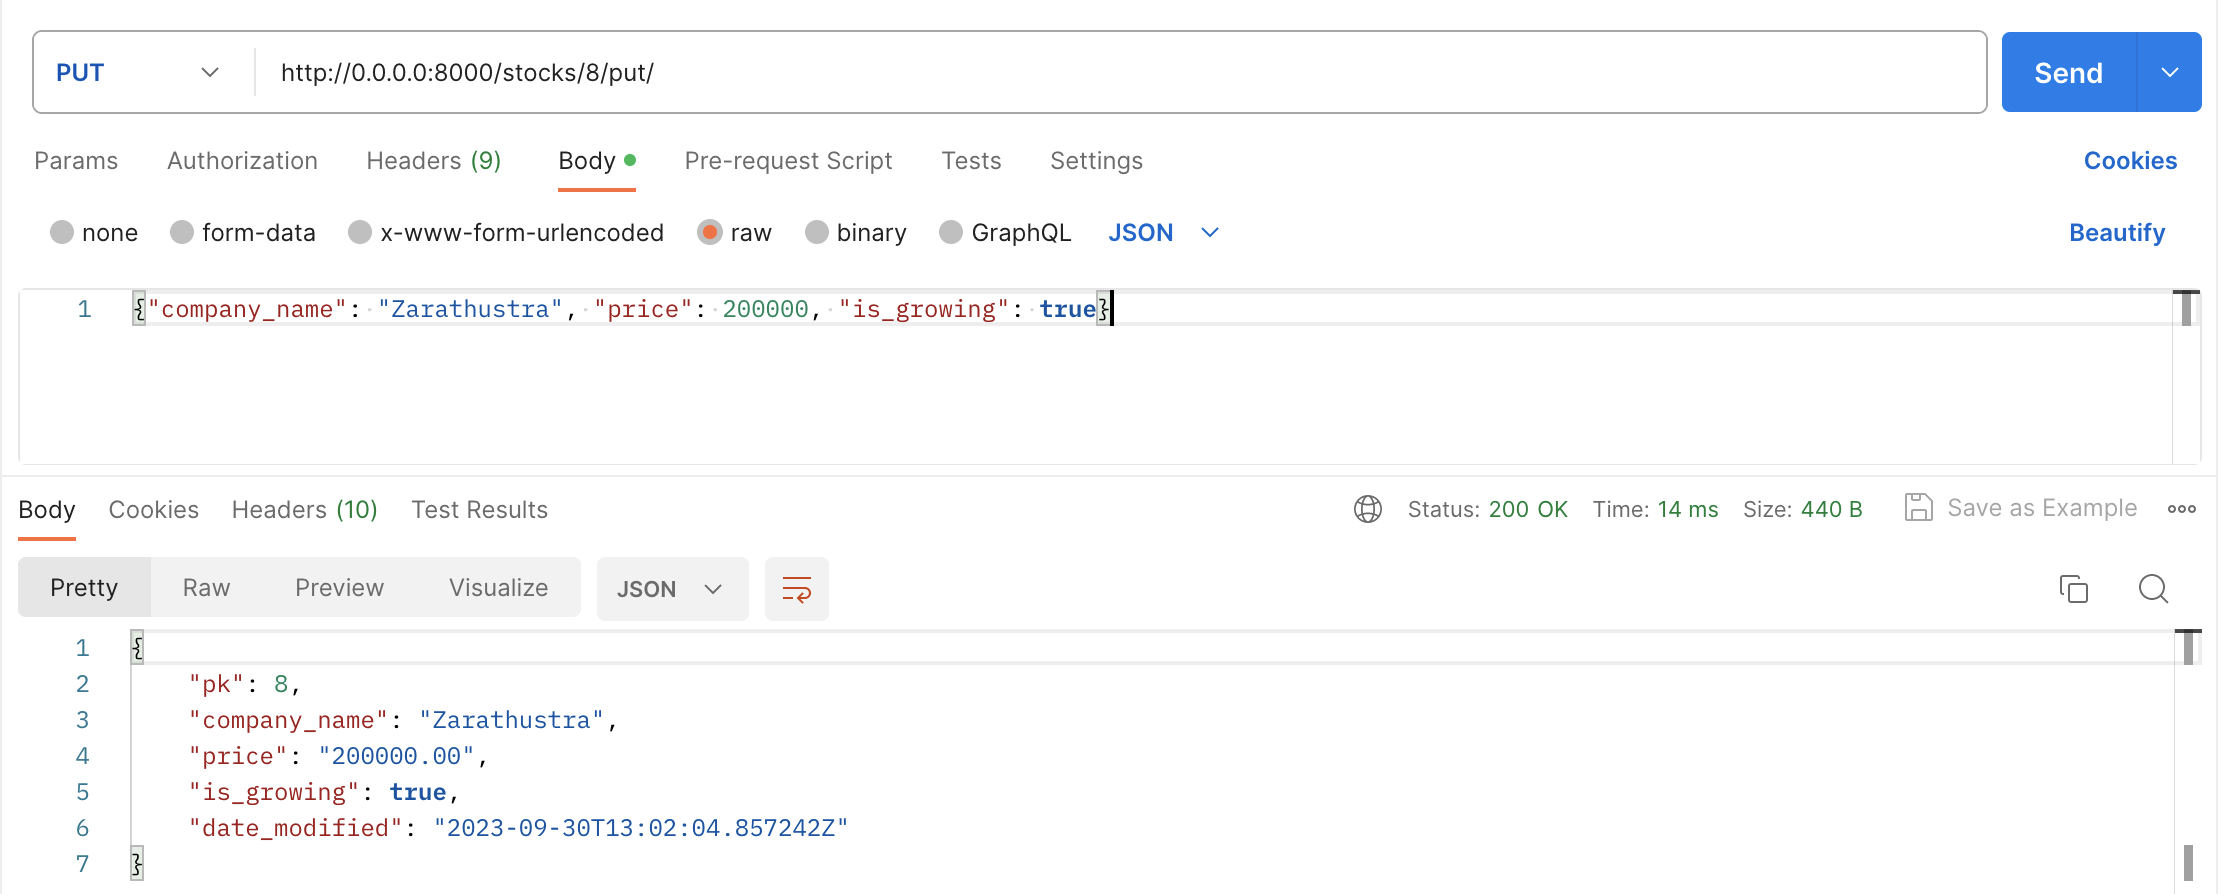
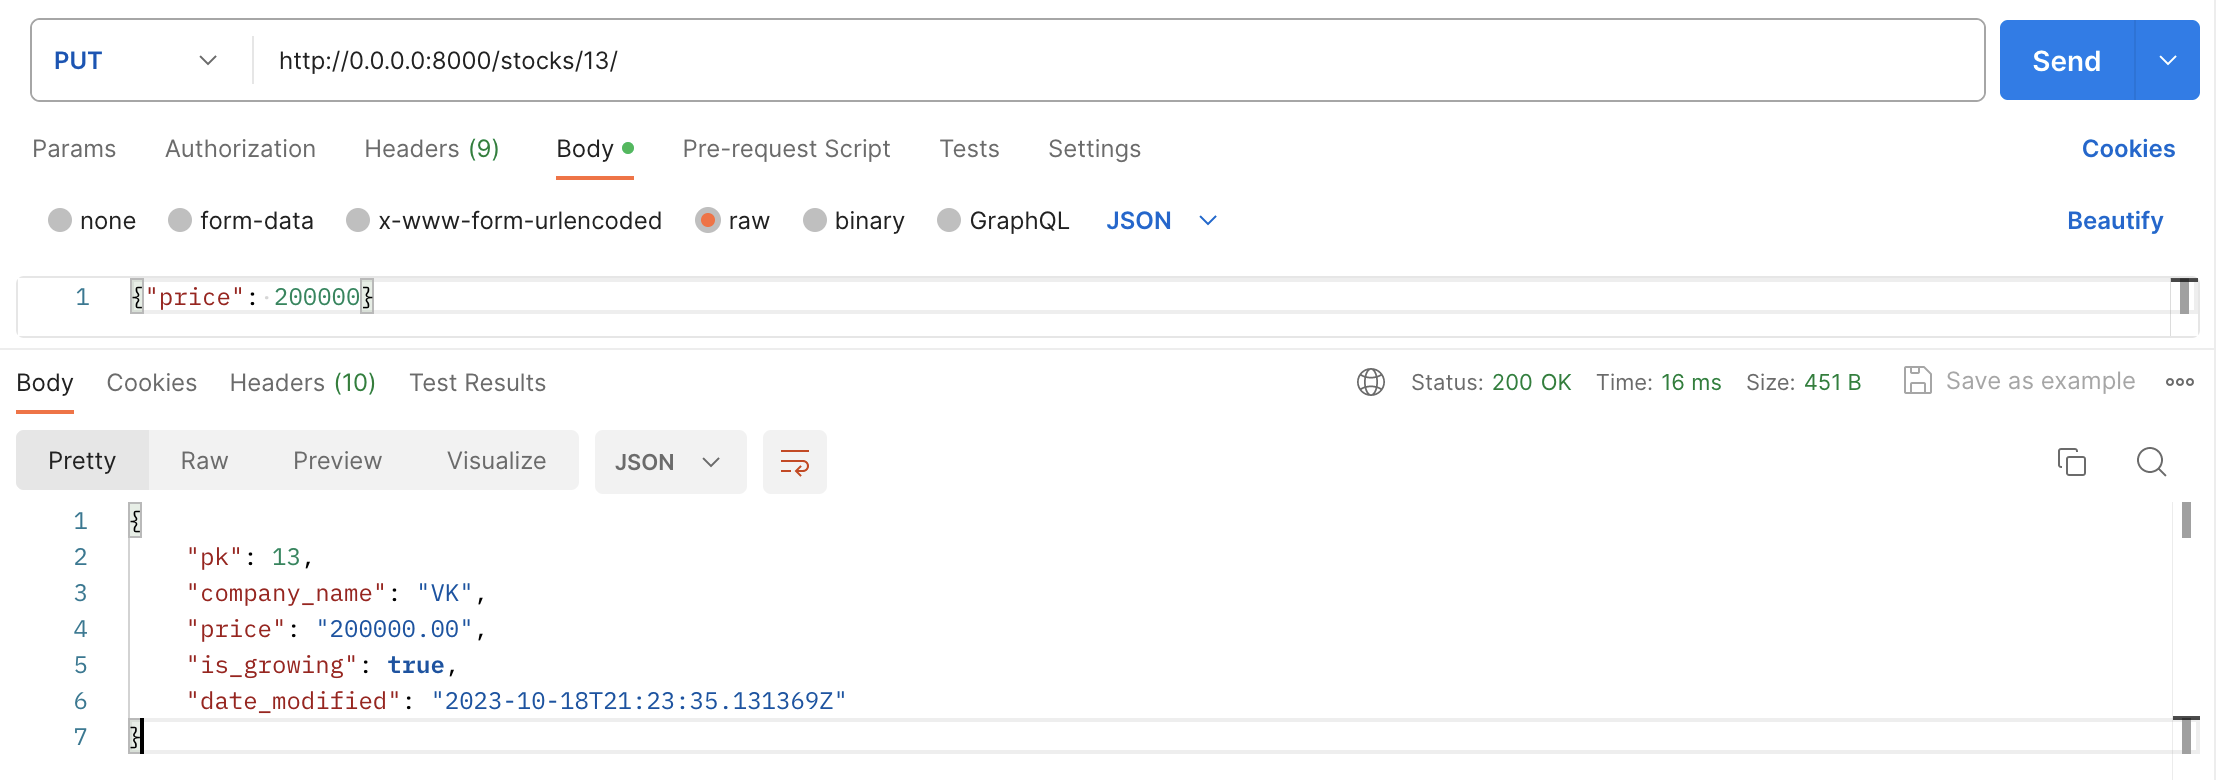
change lab3-py, return class-view

diff --git a/tutorials/lab3-py/lab3_tutorial.md b/tutorials/lab3-py/lab3_tutorial.md
@@ -172,8 +172,7 @@ Cуществует четыре способа написания rest view:
 - Представления на основе функций
 - Класс APIView
 - Классы-примеси (ViewSet)
-В данной работе реализуем view на основе функций. Декоратор api_view принимает список методов HTTP, на которые представление должно реагировать.
-stocks_list реализует работу со списком акций: get (GET /stocks/) и post (POST /stocks/). stocks_detail реализует методы для работы с отдельными акциями с pk, указанным в запросе: get (GET /stocks/1/), put (PUT /stocks/1/), delete (DELETE /stocks/1/).
+В данной работе реализуем view на основе классов. Платформа REST предоставляет класс APIView, который является подклассом класса View Django. 
 
 Напишем view в файле lab3/stocks/views.py
 
@@ -183,44 +182,66 @@ from django.shortcuts import get_object_or_404
 from rest_framework import status
 from stocks.serializers import StockSerializer
 from stocks.models import Stock
+from rest_framework.views import APIView
 from rest_framework.decorators import api_view
 
-@api_view(['Get'])
-def get_list(request, format=None):
-    """
-    Возвращает список акций
-    """
-    print('get')
-    stocks = Stock.objects.all()
-    serializer = StockSerializer(stocks, many=True)
-    return Response(serializer.data)
+class StockList(APIView):
+    model_class = Stock
+    serializer_class = StockSerializer
+    
+    def get(self, request, format=None):
+        """
+        Возвращает список акций
+        """
+        stocks = self.model_class.objects.all()
+        serializer = self.serializer_class(stocks, many=True)
+        return Response(serializer.data)
+    
+    def post(self, request, format=None):
+        """
+        Добавляет новую акцию
+        """
+        serializer = self.serializer_class(data=request.data)
+        if serializer.is_valid():
+            serializer.save()
+            return Response(serializer.data, status=status.HTTP_201_CREATED)
+        return Response(serializer.errors, status=status.HTTP_400_BAD_REQUEST)
 
-@api_view(['Post'])
-def post_list(request, format=None):    
-    """
-    Добавляет новую акцию
-    """
-    print('post')
-    serializer = StockSerializer(data=request.data)
-    if serializer.is_valid():
-        serializer.save()
-        return Response(serializer.data, status=status.HTTP_201_CREATED)
-    return Response(serializer.errors, status=status.HTTP_400_BAD_REQUEST)
+class StockDetail(APIView):
+    model_class = Stock
+    serializer_class = StockSerializer
 
-@api_view(['Get'])
-def get_detail(request, pk, format=None):
-    stock = get_object_or_404(Stock, pk=pk)
-    if request.method == 'GET':
+    def get(self, request, pk, format=None):
         """
         Возвращает информацию об акции
         """
-        serializer = StockSerializer(stock)
+        stock = get_object_or_404(self.model_class, pk=pk)
+        serializer = self.serializer_class(stock)
         return Response(serializer.data)
+    
+    def put(self, request, pk, format=None):
+        """
+        Обновляет информацию об акции (для модератора)
+        """
+        stock = get_object_or_404(self.model_class, pk=pk)
+        serializer = self.serializer_class(stock, data=request.data, partial=True)
+        if serializer.is_valid():
+            serializer.save()
+            return Response(serializer.data)
+        return Response(serializer.errors, status=status.HTTP_400_BAD_REQUEST)
 
+    def delete(self, request, pk, format=None):
+        """
+        Удаляет информацию об акции
+        """
+        stock = get_object_or_404(self.model_class, pk=pk)
+        stock.delete()
+        return Response(status=status.HTTP_204_NO_CONTENT)
+    
 @api_view(['Put'])
 def put_detail(request, pk, format=None):
     """
-    Обновляет информацию об акции
+    Обновляет информацию об акции (для пользователя)
     """
     stock = get_object_or_404(Stock, pk=pk)
     serializer = StockSerializer(stock, data=request.data, partial=True)
@@ -228,15 +249,6 @@ def put_detail(request, pk, format=None):
         serializer.save()
         return Response(serializer.data)
     return Response(serializer.errors, status=status.HTTP_400_BAD_REQUEST)
-
-@api_view(['Delete'])
-def delete_detail(request, pk, format=None):    
-    """
-    Удаляет информацию об акции
-    """
-    stock = get_object_or_404(Stock, pk=pk)
-    stock.delete()
-    return Response(status=status.HTTP_204_NO_CONTENT)
 ```
 
 ## 8. Добавление View в URL'ы нашего приложения
@@ -255,13 +267,10 @@ router = routers.DefaultRouter()
 
 urlpatterns = [
     path('', include(router.urls)),
-    path(r'stocks/', views.get_list, name='stocks-list'),
-    path(r'stocks/post/', views.post_list, name='stocks-post'),
-    path(r'stocks/<int:pk>/', views.get_detail, name='stocks-detail'),
+    path(r'stocks/', views.StockList.as_view(), name='stocks-list'),
+    path(r'stocks/<int:pk>/', views.StockDetail.as_view(), name='stocks-detail'),
     path(r'stocks/<int:pk>/put/', views.put_detail, name='stocks-put'),
-    path(r'stocks/<int:pk>/delete/', views.delete_detail, name='stocks-delete'),
     path('api-auth/', include('rest_framework.urls', namespace='rest_framework')),
-
     path('admin/', admin.site.urls),
 ]
 ```
@@ -295,7 +304,7 @@ urlpatterns = [
    
     ![6.png](assets/6.png)
     
-5. Можно заметить, что нам вернулись все объекты, которые мы создали, также им присвоились номера, которые написаны в поле pk (Primary Key). Давайте попробуем изменить у объекта с pk=8 название компании, а также курс акций. Для этого поменяем метод на PUT (нужен для обновления объекта), в конце ссылки напишем id и передадим новый объект в body запроса (переименуем VK в Zarathustra).
+5. Можно заметить, что нам вернулись все объекты, которые мы создали, также им присвоились номера, которые написаны в поле pk (Primary Key). Давайте попробуем изменить у объекта с pk=13 курс акций. Для этого поменяем метод на PUT (нужен для обновления объекта), добавим id в путь и передадим новый объект в body запроса.
    
     ![7.png](assets/7.png)
     
@@ -303,9 +312,9 @@ urlpatterns = [
    
     ![8.png](assets/8.png)
     
-7. Мы успешно переименовали VK в Zarathustra в объекте с pk=8 (первый по счету) и изменили стоимость акций у этой компании.
+7. Мы успешно изменили стоимость акций у компании c pk=13.
 
-8. Далее удалим объект с pk=9. Для этого изменим HTTP метод на DELETE и в конце строки аргументом укажем pk. Все почти также, как в методе PUT, только тело запроса здесь не нужно.
+8. Далее удалим объект с pk=14. Для этого изменим HTTP метод на DELETE и в конце строки аргументом укажем pk. Все почти также, как в методе PUT, только тело запроса здесь не нужно.
    
     ![9.png](assets/9.png)
     
@@ -313,6 +322,8 @@ urlpatterns = [
     
     ![10.png](assets/10.png)
     
+10. Протестируем наш дополнительный метод для пользователя, чтобы изменить информацию об акции. 
+    ![11.png](assets/11.png)
 
 ## 10. Полезные ссылки
 1. Статья про API: [https://habr.com/ru/post/464261/](https://habr.com/ru/post/464261/)
